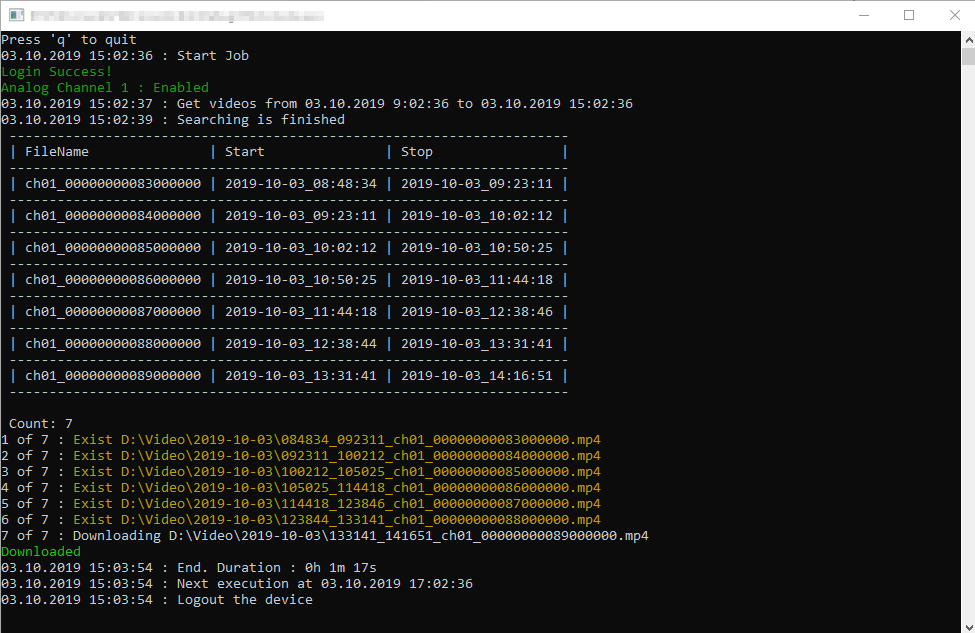
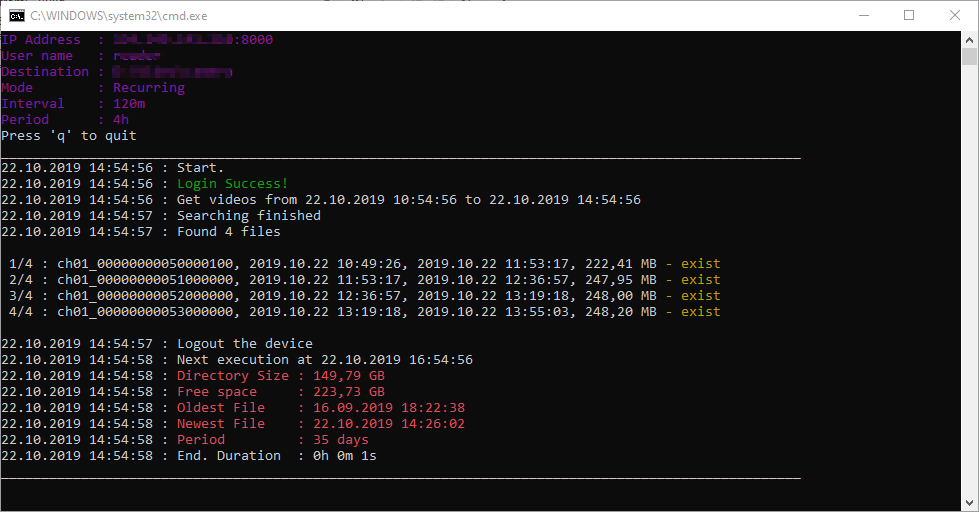
Small improvements

Changed region(s): [[0.0, 0.0, 1.0, 1.0], [0.0, 0.6562, 0.6769, 0.9688], [0.4, 0.2188, 0.4615, 0.25]]

diff --git a/src/HikConsole/HikConsole.cs b/src/HikConsole/HikConsole.cs
@@ -140,7 +140,7 @@ namespace HikConsole
 
         private void PrintFileInfo(FindResult file)
         {
-            C.Write($"{file.FileName}, {file.StartTime}, {file.StopTime}, {Utils.FormatBytes(file.FileSize)} ");
+            C.Write($"{file.FileName}, {file.StartTime.ToString("yyyy.MM.dd HH:mm:ss")}, {file.StopTime.ToString("yyyy.MM.dd HH:mm:ss")}, {Utils.FormatBytes(file.FileSize)} ");
         }
 
         private string GetWorkingDirectory(FindResult file)
@@ -157,7 +157,7 @@ namespace HikConsole
         private void ResetDownloadStatus()
         {
             this.downloadHandle = -1;
-            this.progress.Dispose();
+            this.progress?.Dispose();
             this.progress = null;
         }
 

diff --git a/src/HikConsole/Helpers/Utils.cs b/src/HikConsole/Helpers/Utils.cs
@@ -80,7 +80,7 @@ namespace HikConsole.Helpers
                 dblSByte = bytes / 1024.0;
             }
 
-            return string.Format("{0:0.##} {1}", dblSByte, suffix[i]);
+            return string.Format("{0,6:0.00} {1}", dblSByte, suffix[i]);
         }
 
         public static long GetTotalFreeSpace(string destenation)
